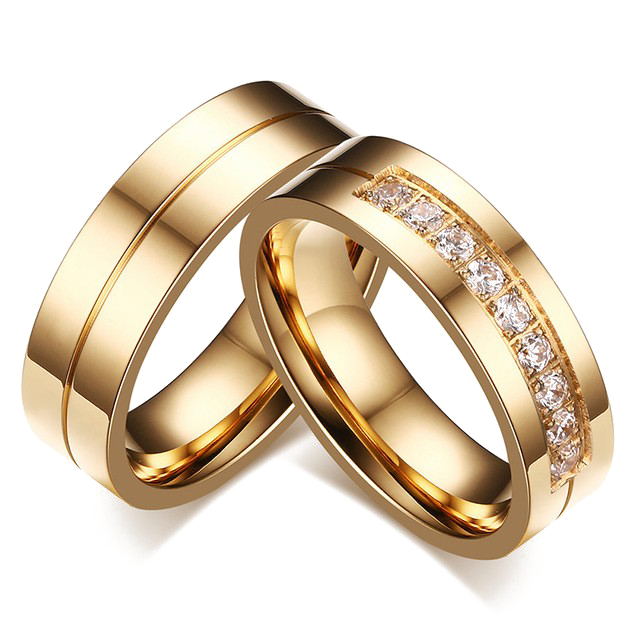
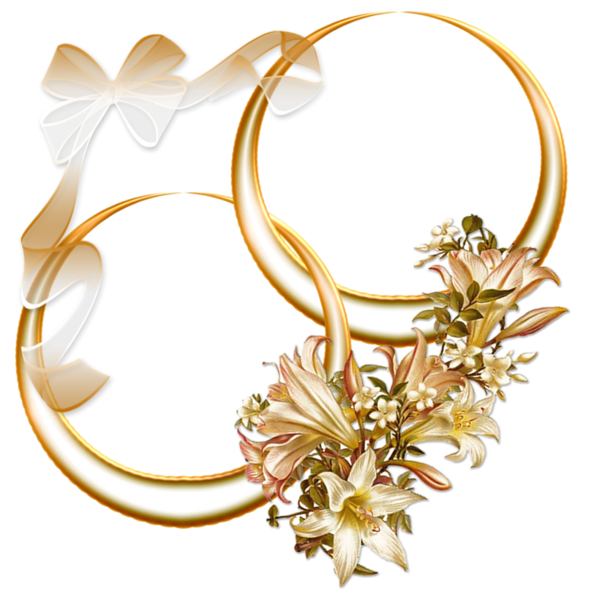
added price section

diff --git a/frontend/src/app/components/PricingSection/PricingSection.tsx b/frontend/src/app/components/PricingSection/PricingSection.tsx
@@ -1,0 +1,107 @@
+"use client";
+import React from "react";
+import styles from "./PricingSection.module.css";
+
+export default function PricingSection() {
+  return (
+    <section className={styles.section} aria-labelledby="pricing-heading">
+      <div className={styles.container}>
+        <h2 id="pricing-heading" className={styles.title}>
+          Choose the Perfect Floral Package
+        </h2>
+
+        <div className={styles.badges} role="list">
+          <span className={styles.badge}>✨ Handcrafted Decor</span>
+          <span className={styles.badge}>✨ Custom Designs</span>
+          <span className={styles.badge}>✨ On-Time Setup</span>
+        </div>
+
+        <div className={styles.grid}>
+            <article className={styles.card}>
+              <header className={styles.cardHeader}>
+                <h3 className={styles.planName}>Basic Floral</h3>
+                <p className={styles.planDesc}>Simple and elegant floral décor for small events and gatherings.</p>
+              </header>
+
+              <div className={styles.prices}>
+                <span className={styles.oldPrice}>₹6,000</span>
+                <span className={styles.price}>₹5,000</span>
+              </div>
+
+              <button className={styles.cta} type="button">Choose</button>
+
+              <ul className={styles.features}>
+                  <li>✨ Fresh flower decoration</li>
+                  <li>✨ Stage or backdrop décor</li>
+                  <li>✨ Basic color theme</li>
+                  <li>✨ Suitable for small events</li>
+              </ul>
+            </article>
+
+            <article className={styles.card}>
+              <header className={styles.cardHeader}>
+                <h3 className={styles.planName}>Premium Floral</h3>
+                <p className={styles.planDesc}>Stylish decoration with enhanced floral arrangements and theme touch.</p>
+              </header>
+
+              <div className={styles.prices}>
+                <span className={styles.oldPrice}>₹9,000</span>
+                <span className={styles.price}>₹8,000</span>
+              </div>
+
+              <button className={styles.cta} type="button">Choose</button>
+
+              <ul className={styles.features}>
+                  <li>✨ Premium fresh flowers</li>
+                  <li>✨ Stage + entrance décor</li>
+                  <li>✨ Enhanced color theme</li>
+                  <li>✨ Ideal for birthdays & baby ceremonies</li>
+              </ul>
+            </article>
+
+            <article className={styles.card}>
+              <header className={styles.cardHeader}>
+                <h3 className={styles.planName}>Deluxe Floral</h3>
+                <p className={styles.planDesc}>Deluxe floral décor with customized themes for special occasions.</p>
+              </header>
+
+              <div className={styles.prices}>
+                <span className={styles.oldPrice}>₹16,000</span>
+                <span className={styles.price}>₹15,000</span>
+              </div>
+
+              <button className={styles.cta} type="button">Choose</button>
+
+              <ul className={styles.features}>
+                  <li>✨ Premium & exotic flowers</li>
+                  <li>✨ Customized theme design</li>
+                  <li>✨ Stage, entrance & key area décor</li>
+                  <li>✨ Perfect for weddings & engagements</li>
+              </ul>
+            </article>
+
+            <article className={styles.card}>
+              <header className={styles.cardHeader}>
+                <h3 className={styles.planName}>Luxury Floral</h3>
+                <p className={styles.planDesc}>Luxury flower decoration with full venue transformation for grand events.</p>
+              </header>
+
+              <div className={styles.prices}>
+                <span className={styles.oldPrice}>₹26,000</span>
+                <span className={styles.price}>₹25,000</span>
+              </div>
+
+              <button className={styles.cta} type="button">Choose</button>
+
+              <ul className={styles.features}>
+                  <li>✨ Luxury floral arrangements</li>
+                  <li>✨ Full venue decoration</li>
+                  <li>✨ Designer theme setup</li>
+                  <li>✨ Best for grand & premium events</li>
+              </ul>
+            </article>
+        </div>
+      </div>
+    </section>
+  );
+}

diff --git a/frontend/src/app/page.module.css b/frontend/src/app/page.module.css
@@ -94,7 +94,7 @@
 }
 
 .btn.primary {
-  background: linear-gradient(90deg,#ff7ab6,#ffb86b);
+  background: linear-gradient(90deg,#A67AFF,#ffb86b);
   color: white;
 }
 .btn.ghost{
@@ -114,7 +114,7 @@
   text-align: center; 
 }
 
-.gallery { padding: 2rem; }
+.gallery { padding: 2rem;background-color: #7AFF8E; }
 .gallery h2{
   text-align: center;
   font-size: 2rem;
@@ -142,7 +142,7 @@
 }
 
 /* Events grid */
-.events { padding: 2rem; background: linear-gradient(180deg,#fff7fb,#fff) }
+.events { padding: 2rem; background-color: #7AFF8E; }
 .events h2 { margin-bottom: 2.5rem; text-align: center; font-size: 2rem;}
 .events-grid { display: grid; grid-template-columns: repeat(2,1fr); grid-auto-rows: auto; gap: 18px; max-width:1100px; margin:0 auto }
 
@@ -155,7 +155,7 @@
 .price { font-weight: 800; color: #222; margin-bottom: 8px }
 
 /* Services grid: 2 columns x 3 rows */
-.services-grid { display: grid; grid-template-columns: repeat(2, 1fr); gap: 18px; max-width:1100px; margin:0 auto; padding-top: 8px }
+.services-grid { display: grid; grid-template-columns: repeat(2, 1fr); gap: 18px; margin:0 auto; padding-top: 8px }
 .service-card { display:flex; gap:12px; align-items:center; padding:14px; border-radius:12px; background: linear-gradient(180deg,#fff,#fffefb); box-shadow: 0 12px 30px rgba(12,12,12,0.05); transition: transform 160ms ease }
 .service-card:hover { transform: translateY(-6px) }
 .service-card img { width: 130px; height: 100px; object-fit: cover; border-radius:8px; flex-shrink:0 }
@@ -163,7 +163,7 @@
 .service-body p { color:#666; margin-bottom:8px }
 
 /* Why Choose section */
-.why { padding: 1rem 8px; background: linear-gradient(180deg,#fff9f8,#fffaf6); }
+.why { padding: 1rem 8px; background-color: #7AFF8E; }
 .why-inner { margin: 0 auto; text-align: center; padding: 18px }
 .why h2 { font-size: 2rem; margin-bottom: 8px }
 .why-sub { margin:0 auto; max-width:90%; padding: 2.25rem 12px; color: #666; margin-bottom: 18px; text-align: center; line-height: 1.5rem;}
@@ -214,7 +214,7 @@
   line-height: 1.05;
   letter-spacing: -0.02em;
 }
-.booking .booking-form { background: linear-gradient(180deg,#fff,#fff); padding: 18px; border-radius: 12px; box-shadow: 0 12px 30px rgba(12,12,12,0.06) }
+.booking .booking-form { background-color: #7AFF8E; padding: 18px; border-radius: 12px; box-shadow: 0 12px 30px rgba(12,12,12,0.06) }
 .booking button{cursor:pointer;}
 
 @media (max-width: 980px) {

diff --git a/frontend/src/app/components/PricingSection/PricingSection.module.css b/frontend/src/app/components/PricingSection/PricingSection.module.css
@@ -1,0 +1,117 @@
+.section {
+  padding: 3rem 1rem;
+  /* background: linear-gradient(180deg,#fff 0%, #f7fbff 100%); */
+  background-color: #7AFF8E;
+}
+
+.container {
+  width:90%;
+  margin: 0 auto;
+  text-align: center;
+}
+
+.title {
+  margin-bottom: 2.5rem; 
+  text-align: center; 
+  font-size: 2rem;
+}
+
+.badges {
+  display: flex;
+  gap: 0.5rem;
+  margin: 0 auto;
+  margin-bottom: 1.25rem;
+  flex-wrap: wrap;
+  justify-content: center;
+  background-color: transparent;
+}
+
+.badge {
+  background: rgba(247, 239, 232, 0.4); 
+  padding:8px 12px; border-radius:999px; 
+  font-weight:600;
+  text-align: center;
+}
+
+.grid {
+  display: grid;
+  gap: 1rem;
+  grid-template-columns: repeat(4,1fr);
+}
+
+.card {
+  background: #fff;
+  border-radius: 12px;
+  padding: 1rem;
+  box-shadow: 0 8px 24px rgba(8,15,40,0.06);
+  display: flex;
+  flex-direction: column;
+  justify-content: space-between;
+}
+
+.cardHeader {
+  margin-bottom: 0.75rem;
+}
+
+.planName {
+  margin: 0;
+  font-size: 1.5rem;
+  padding-bottom: 1rem;
+}
+
+.planDesc {
+  margin: 0.25rem 0 0;
+  font-size: 0.9rem;
+}
+
+.prices {
+  display: flex;
+  align-items: baseline;
+  gap: 0.75rem;
+  margin: 0.75rem 0;
+}
+
+.oldPrice {
+  text-decoration: line-through;
+  color: #9ca3af;
+}
+
+.price {
+  font-size: 1.5rem;
+  font-weight: 800;
+  color: #52ef69;
+}
+
+.cta {
+  color: white;
+  padding: 0.6rem 0.8rem;
+  border-radius: 8px;
+  font-weight: 700;
+  cursor: pointer;
+  background: linear-gradient(90deg,#A67AFF,#ffb86b);
+  border: none;
+}
+
+.features {
+  margin-top: 0.75rem;
+  list-style: none;
+  padding: 0;
+  color: #111827;
+  display: grid;
+  gap: 1rem;
+  text-align: left;
+}
+
+@media (max-width: 768px) {
+  .badges {
+    justify-content: center;
+  }
+
+  .grid {
+    grid-template-columns: repeat(1, 1fr);
+  }
+
+  .card {
+    padding: 1.25rem;
+  }
+}

diff --git a/frontend/src/app/components/Navbar/Navbar.module.css b/frontend/src/app/components/Navbar/Navbar.module.css
@@ -2,7 +2,7 @@
   position: sticky;
   top: 0;
   backdrop-filter: blur(6px);
-  background: linear-gradient(90deg, rgba(255,255,255,0.85), rgba(250,245,255,0.6));
+  background: #FFB86B;
   z-index: 40;
   border-bottom: 1px solid rgba(0,0,0,0.04);
   height: 72px;
@@ -31,7 +31,7 @@
 
 .navDesktop { display:flex; gap:18px; align-items:center }
 .navDesktop a { padding:8px 12px; border-radius:8px; color:#222; font-weight:500; text-decoration:none }
-.navDesktop a:hover { background: rgba(0,0,0,0.03) }
+.navDesktop a:hover { background: linear-gradient(90deg,#A67AFF,#ffb86b); }
 
 .burger { display: none; background: transparent; border: none }
 .bar { display:block; width:22px; height:2px; margin:4px 0; background:#333; border-radius:2px }

diff --git a/frontend/src/app/page.tsx b/frontend/src/app/page.tsx
@@ -1,5 +1,6 @@
 "use client";
 import styles from "./page.module.css";
+import PricingSection from "./components/PricingSection/PricingSection";
 import Image from "next/image";
 
 export default function Page() {
@@ -46,7 +47,9 @@ export default function Page() {
          
         </section>
 
-        <section className={styles.events} id="services">
+  <PricingSection />
+
+  <section className={styles.events} id="services">
           <h2>Our Services</h2>
           <div className={styles["services-grid"]}>
             <article className={styles["service-card"]}>
